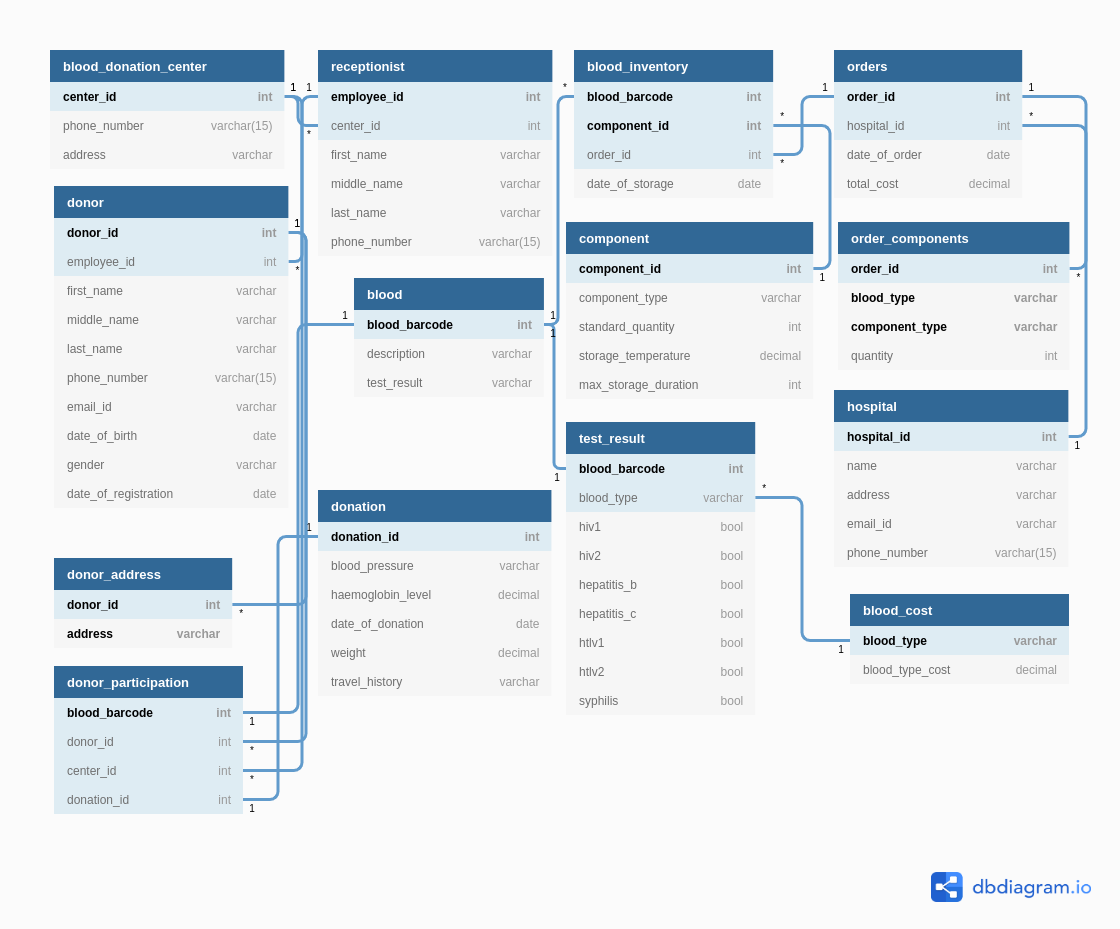
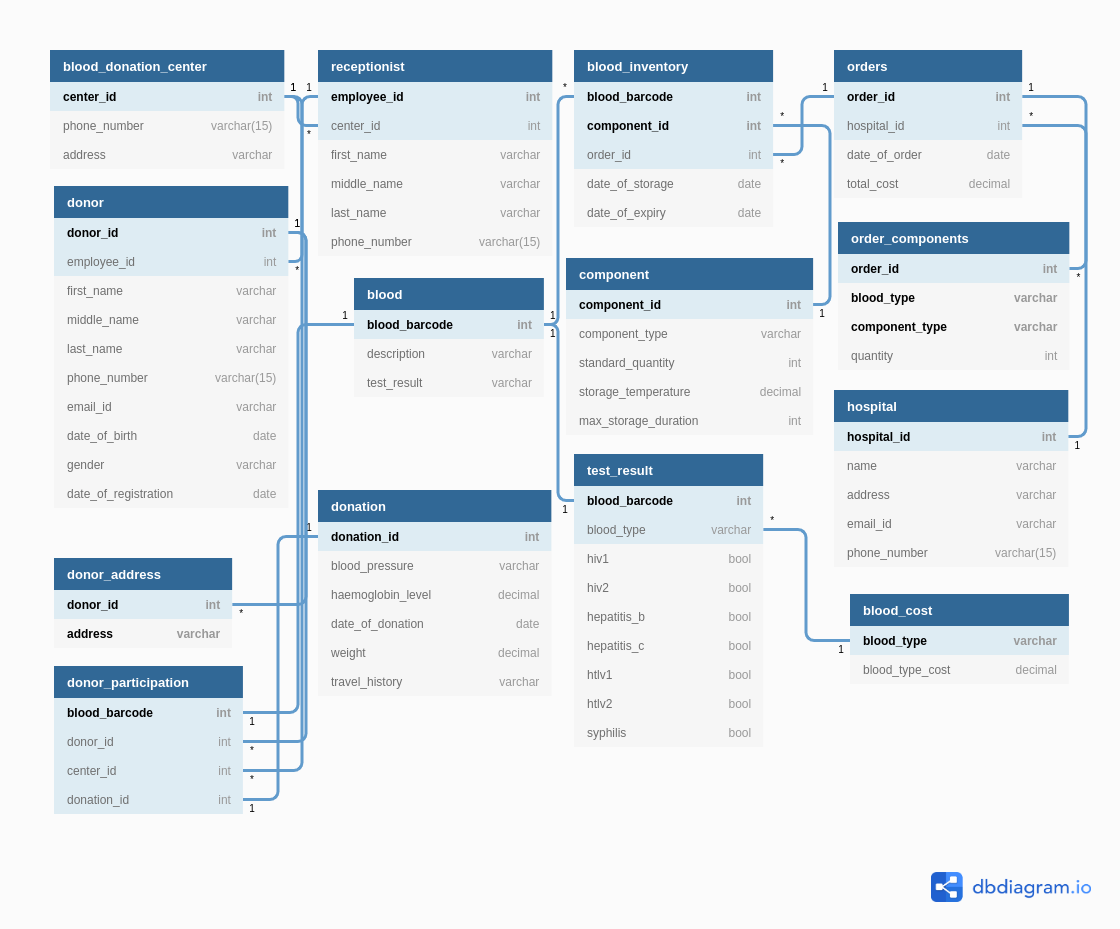
Added expiry date to inventory

Changed region(s): [[0.4688, 0.2185, 0.75, 0.6868], [0.5312, 0.6243, 0.5625, 0.718], [0.5312, 0.7492, 0.5625, 0.8116]]

diff --git a/pyscripts/bloodbank.py b/pyscripts/bloodbank.py
@@ -280,6 +280,15 @@ def addToInventory():
         db.commit()
         print(GREEN, "Insert successful", RESET, sep="")
 
+        # update blood inventory
+        SQL_query = "UPDATE blood_inventory " \
+                    "JOIN component ON blood_inventory.component_id = component.component_id " \
+                    "SET date_of_expiry = date_of_storage + INTERVAL max_storage_duration DAY " \
+                    "WHERE blood_inventory.blood_barcode = %s AND blood_inventory.component_id = %s"
+
+        cursor.execute(SQL_query, (inventory["barcode"], inventory["comp_id"]))
+        db.commit()
+
     except Exception as e:
         db.rollback()
         print(RED, "Failed to insert into database", RESET, sep="")
@@ -389,9 +398,7 @@ def removeOrderedSamplesFromInventory():
 
 def removeExpiredSamplesFromInventory():
     try:
-        SQL_query = "DELETE blood_inventory FROM blood_inventory " \
-                    "JOIN component ON blood_inventory.component_id = component.component_id " \
-                    "WHERE order_id IS NULL AND date_of_storage + INTERVAL max_storage_duration DAY < CURDATE()"
+        SQL_query = "DELETE FROM blood_inventory WHERE order_id IS NULL AND date_of_expiry < CURDATE()"
 
         cursor.execute(SQL_query)
         db.commit()
@@ -612,9 +619,8 @@ def getDonorsDonatedAtCenter():
 
 def findExpiredBlood():
     try:
-        SQL_query = "SELECT blood_inventory.blood_barcode, blood_inventory.component_id, blood_inventory.date_of_storage, component.max_storage_duration FROM blood_inventory " \
-                    "JOIN component ON blood_inventory.component_id = component.component_id " \
-                    "WHERE order_id IS NULL AND date_of_storage + INTERVAL max_storage_duration DAY < CURDATE()"
+        SQL_query = "SELECT blood_barcode, component_id, date_of_storage, date_of_expiry FROM blood_inventory " \
+                    "WHERE order_id IS NULL AND date_of_expiry < CURDATE()"
 
         cursor.execute(SQL_query)
         table = from_db_cursor(cursor)
@@ -653,8 +659,8 @@ def loop():
             "Get Donors who have Donated at a Particular Center",
             "Update Details of a Donor",
             "Remove a Donor",
-            "Delete Expired Samples from Inventory",
             "Delete Ordered Samples from Inventory",
+            "Delete Expired Samples from Inventory",
             "Quit"
         ]
 

diff --git a/pyscripts/insertions.py b/pyscripts/insertions.py
@@ -209,6 +209,15 @@ def addToInventory():
         cfg.db.commit()
         print(cfg.GREEN, "Insert successful", cfg.RESET, sep="")
 
+        # update blood inventory
+        SQL_query = "UPDATE blood_inventory " \
+                    "JOIN component ON blood_inventory.component_id = component.component_id " \
+                    "SET date_of_expiry = date_of_storage + INTERVAL max_storage_duration DAY " \
+                    "WHERE blood_inventory.blood_barcode = %s AND blood_inventory.component_id = %s"
+
+        cfg.cursor.execute(SQL_query, (inventory["barcode"], inventory["comp_id"]))
+        cfg.db.commit()
+
     except Exception as e:
         cfg.db.rollback()
         print(cfg.RED, "Failed to insert into database", cfg.RESET, sep="")

diff --git a/pyscripts/selections.py b/pyscripts/selections.py
@@ -212,9 +212,8 @@ def getDonorsDonatedAtCenter():
 
 def findExpiredBlood():
     try:
-        SQL_query = "SELECT blood_inventory.blood_barcode, blood_inventory.component_id, blood_inventory.date_of_storage, component.max_storage_duration FROM blood_inventory " \
-                    "JOIN component ON blood_inventory.component_id = component.component_id " \
-                    "WHERE order_id IS NULL AND date_of_storage + INTERVAL max_storage_duration DAY < CURDATE()"
+        SQL_query = "SELECT blood_barcode, component_id, date_of_storage, date_of_expiry FROM blood_inventory " \
+                    "WHERE order_id IS NULL AND date_of_expiry < CURDATE()"
 
         cfg.cursor.execute(SQL_query)
         table = from_db_cursor(cfg.cursor)

diff --git a/pyscripts/deletions.py b/pyscripts/deletions.py
@@ -34,9 +34,7 @@ def removeOrderedSamplesFromInventory():
 
 def removeExpiredSamplesFromInventory():
     try:
-        SQL_query = "DELETE blood_inventory FROM blood_inventory " \
-                    "JOIN component ON blood_inventory.component_id = component.component_id " \
-                    "WHERE order_id IS NULL AND date_of_storage + INTERVAL max_storage_duration DAY < CURDATE()"
+        SQL_query = "DELETE FROM blood_inventory WHERE order_id IS NULL AND date_of_expiry < CURDATE()"
 
         cfg.cursor.execute(SQL_query)
         cfg.db.commit()

diff --git a/pyscripts/main.py b/pyscripts/main.py
@@ -61,8 +61,8 @@ def loop():
             "Get Donors who have Donated at a Particular Center",
             "Update Details of a Donor",
             "Remove a Donor",
-            "Delete Expired Samples from Inventory",
             "Delete Ordered Samples from Inventory",
+            "Delete Expired Samples from Inventory",
             "Quit"
         ]
 
